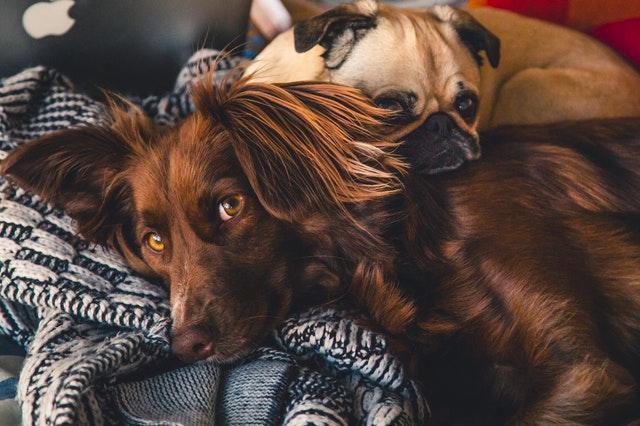
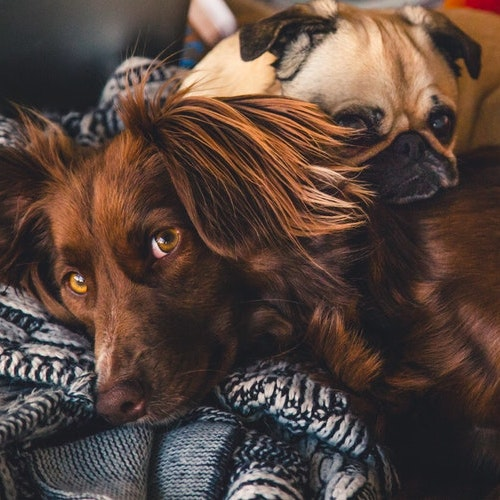
Develop functioning carousel

diff --git a/adopt.html b/adopt.html
@@ -16,7 +16,7 @@
     <nav class="navbar navbar-expand-md navbar-dark bg-custom">
       <a class="navbar-brand" href="#">Derby Pet Match</a>
       <button class="navbar-toggler" type="button" data-toggle="collapse" data-target="#collapsibleNav"><span class="navbar-toggler-icon"></span></button>
-      
+
       <div class="collapse navbar-collapse" id="collapsibleNav">
         <ul class="navbar-nav ml-md-auto">
           <li class="nav-item">
@@ -36,63 +36,66 @@
 
     </nav><!-- /.navbar -->
   </header>
-  
-      <div class="jumbotron" id="appPreamble">
-        <h1 class="display-5">Pet Adoption</h1><hr>
-      </div>
-  
-    <div class="container-fluid">
-      
-      <div id="appWrap">
-        <div id="appInput">
-          
-          <div class="card appInitial" id="q0">
-            <div class="card-body">
-              <h2 class="card-title">Let's begin!</h2><hr>
-              <p class="card-text">Would you like us to find a pet who best suits you and your home, or simply view all available pets?<br><br>
-              
+
+  <div class="jumbotron" id="appPreamble">
+    <h1 class="display-5">Pet Adoption</h1>
+    <hr>
+  </div>
+
+  <div class="container-fluid">
+
+    <div id="appWrap">
+      <div id="appInput">
+
+        <div class="card appInitial" id="q0">
+          <div class="card-body">
+            <h2 class="card-title">Let's begin!</h2>
+            <hr>
+            <p class="card-text">Would you like us to find a pet who best suits you and your home, or simply view all available pets?<br><br>
+
               <button class="btn btn-dark" id="viewAll" data-selection="viewAll">View all pets</button>
               <button class="btn btn-dark" id="petMatch" data-selection="petMatch">Find your match</button>
-              </p>
-            </div>
-          </div><!-- /.appInitial#q0 -->
-          
-          <div class="card appQuestion" id="q1">
-            <div class="card-body">
-              <h2 class="card-title">What kind of personality do you have?</h2><hr>
-              <p class="card-text">We know you're a caring person because you're interested in adoption. Some pets are better suited to certain human lifestyles. Do you have an introverted, or an extroverted personality?<br><br>
+            </p>
+          </div>
+        </div><!-- /.appInitial#q0 -->
+
+        <div class="card appQuestion" id="q1">
+          <div class="card-body">
+            <h2 class="card-title">What kind of personality do you have?</h2>
+            <hr>
+            <p class="card-text">We know you're a caring person because you're interested in adoption. Some pets are better suited to certain human lifestyles. Do you have an introverted, or an extroverted personality?<br><br>
 
               <button class="btn btn-dark nextQuestion" data-selection="introvert">I'm an introvert</button>
               <button class="btn btn-dark nextQuestion" data-selection="extrovert">I'm an extrovert</button>
-              </p>
-            </div>
-          </div><!-- /.appQuestion#q1 -->
-          
-          <div class="card appQuestion" id="q2">
-            <div class="card-body">
-              <h2 class="card-title">How big is your living space?</h2>
-              <p class="card-text">The amount of space a pet needs to live comfortable can vary dramatically based on multiple factors, such as species, breed, sex, etc. It's okay if you don't own your own home, we just need to know how many rooms you have.<br><br>
+            </p>
+          </div>
+        </div><!-- /.appQuestion#q1 -->
+
+        <div class="card appQuestion" id="q2">
+          <div class="card-body">
+            <h2 class="card-title">How big is your living space?</h2>
+            <p class="card-text">The amount of space a pet needs to live comfortable can vary dramatically based on multiple factors, such as species, breed, sex, etc. It's okay if you don't own your own home, we just need to know how many rooms you have.<br><br>
               I have <input type="number"> rooms.<br>
               <button class="btn btn-dark nextQuestion" data-input>Proceed</button>
-              </p>
-            </div>
-          </div><!-- /.appQuestion#q2 -->
-          
-          <div class="card appQuestion" id="q3">
-            <div class="card-body">
-              <h2 class="card-title">Do you have access to a yard?</h2>
-              <p class="card-text">Some pets require daily access to the outdoors, such as a yard. Can you provide or have access to such a space?<br><br>
+            </p>
+          </div>
+        </div><!-- /.appQuestion#q2 -->
 
-                <button class="btn btn-dark nextQuestion" data-selection="true">I have a yard</button>
-                <button class="btn btn-dark nextQuestion" data-selection="">I do not have a yard</button><!-- This data-selection is deliberately empty; empty strings evaluate to false in JS -->
-              </p>
-            </div>
-          </div><!-- /.appQuestion#q3 -->
-          
-          <div class="card appQuestion" id="q4">
-            <div class="card-body">
-              <h2 class="card-title">Which of the following do you already have?</h2>
-              <p class="card-text">Everyone has likes and dislikes, even pets! Some pets don't have the temperment to deal with children, or even others of their own species. Please read the following choices and select those things which exist in your home.<br><br>
+        <div class="card appQuestion" id="q3">
+          <div class="card-body">
+            <h2 class="card-title">Do you have access to a yard?</h2>
+            <p class="card-text">Some pets require daily access to the outdoors, such as a yard. Can you provide or have access to such a space?<br><br>
+
+              <button class="btn btn-dark nextQuestion" data-selection="true">I have a yard</button>
+              <button class="btn btn-dark nextQuestion" data-selection="">I do not have a yard</button><!-- This data-selection is deliberately empty; empty strings evaluate to false in JS -->
+            </p>
+          </div>
+        </div><!-- /.appQuestion#q3 -->
+
+        <div class="card appQuestion" id="q4">
+          <div class="card-body">
+            <h2 class="card-title">Which of the following do you already have?</h2>
+            <p class="card-text">Everyone has likes and dislikes, even pets! Some pets don't have the temperment to deal with children, or even others of their own species. Please read the following choices and select those things which exist in your home.<br><br>
 
               <input type="checkbox" id="children" data-selection="child">
               <label for="children">Children</label>
@@ -102,46 +105,46 @@
               <label for="dogs">Dogs</label>
 
               <button class="btn btn-dark finalQuestion" data-input>Show me my matches!</button>
-              </p>
-            </div>
-          </div><!-- /.appQuestion#q4 -->
+            </p>
+          </div>
+        </div><!-- /.appQuestion#q4 -->
 
-        </div>
-        <div class="row appOutput">
-
-        </div><!-- /.row /.appOutput -->
       </div>
-      
-    </div><!-- /.container -->
+      <div class="row appOutput">
+
+      </div><!-- /.row /.appOutput -->
+    </div>
+
+  </div><!-- /.container -->
 
   <footer>
     <ul class="nav d-flex flex-column flex-md-row align-items-center">
-        <li class="nav-item">
-          <a class="nav-link" href="index.html">Home</a>
-        </li>
-        <li class="nav-item">
-          <a class="nav-link" href="#">Adopt</a>
-        </li>
-        <li class="nav-item">
-          <a class="nav-link" href="index.html#about">About</a>
-        </li>
-        <li class="nav-item">
-          <a class="nav-link" href="index.html#contact">Contact</a>
-        </li>
-        <li class="nav-item">
-          <a class="nav-link" href="tel:502-555-5555">Call now</a>
-        </li>
-        <li class="nav-item ml-md-auto">
-          <a class="nav-link disabled" href="#"><address class="nav-text">100 Fictional Ave., Louisville, KY 40204</address></a>
-        </li>
-      </ul>
+      <li class="nav-item">
+        <a class="nav-link" href="index.html">Home</a>
+      </li>
+      <li class="nav-item">
+        <a class="nav-link" href="#">Adopt</a>
+      </li>
+      <li class="nav-item">
+        <a class="nav-link" href="index.html#about">About</a>
+      </li>
+      <li class="nav-item">
+        <a class="nav-link" href="index.html#contact">Contact</a>
+      </li>
+      <li class="nav-item">
+        <a class="nav-link" href="tel:502-555-5555">Call now</a>
+      </li>
+      <li class="nav-item ml-md-auto">
+        <a class="nav-link disabled" href="#">
+          <address class="nav-text">100 Fictional Ave., Louisville, KY 40204</address>
+        </a>
+      </li>
+    </ul>
   </footer>
 
   <script src="js/jquery-3.4.1.min.js"></script>
   <script src="js/bootstrap.bundle.min.js"></script>
   <script src="js/app.js"></script>
 
-</body>
-
-</html>
+</body></html>
 

diff --git a/index.html b/index.html
@@ -94,30 +94,32 @@
       <!-- /#about-image -->
 
       <div id="attract" class="carousel slide col-12 col-md-6 col-xl-3 order-2 order-md-3 order-xl-1" data-ride="carousel">
-        <ol class="carousel-indicators">
-          <li data-target="#attract" data-slide-to="0" class="active"></li>
-          <li data-target="#attract" data-slide-to="1"></li>
-          <li data-target="#attract" data-slide-to="2"></li>
-        </ol>
-        <div class="carousel-inner">
-          <div class="carousel-item active">
-            <img class="d-block" src="img/best-friends.jpg" alt="A puppy and kitten playing with each other">
+        <div id="attract-wrapper">
+          <ol class="carousel-indicators">
+            <li data-target="#attract" data-slide-to="0" class="active"></li>
+            <li data-target="#attract" data-slide-to="1"></li>
+            <li data-target="#attract" data-slide-to="2"></li>
+          </ol>
+          <div class="carousel-inner">
+            <div class="carousel-item active">
+              <img class="d-block" src="img/best-friends.jpg" alt="A puppy and kitten playing with each other">
+            </div>
+            <div class="carousel-item">
+              <img class="d-block" src="img/dogs-crate.jpg" alt="A dog being pet through a crate">
+            </div>
+            <div class="carousel-item">
+              <img class="d-block" src="img/dogs-together.jpg" alt="Two dogs snuggling on a couch">
+            </div>
           </div>
-          <div class="carousel-item">
-            <img class="d-block" src="img/dogs-crate.jpg" alt="A dog being pet through a crate">
-          </div>
-          <div class="carousel-item">
-            <img class="d-block" src="img/dogs-together.jpg" alt="Two dogs snuggling on a couch">
-          </div>
+          <a class="carousel-control-prev" href="#attract" role="button" data-slide="prev">
+            <span class="carousel-control-prev-icon" aria-hidden="true"></span>
+            <span class="sr-only">Previous</span>
+          </a>
+          <a class="carousel-control-next" href="#attract" role="button" data-slide="next">
+            <span class="carousel-control-next-icon" aria-hidden="true"></span>
+            <span class="sr-only">Next</span>
+          </a>
         </div>
-        <a class="carousel-control-prev" href="#attract" role="button" data-slide="prev">
-          <span class="carousel-control-prev-icon" aria-hidden="true"></span>
-          <span class="sr-only">Previous</span>
-        </a>
-        <a class="carousel-control-next" href="#attract" role="button" data-slide="next">
-          <span class="carousel-control-next-icon" aria-hidden="true"></span>
-          <span class="sr-only">Next</span>
-        </a>
       </div> <!-- /#attract -->
 
       <div class="col-12 col-md-6 col-xl-3 order-4 order-xl-3" id="contact-image">

diff --git a/css/style.css b/css/style.css
@@ -74,16 +74,15 @@ a {
   index.html
 ~~~~~~~~~~~~~~~~~~~~~~~~~~~~~~ */
 
-.carousel-item {
-  display: flex;
-  align-content: center;
+.carousel {
+  /* Match margin of surrounding content. */
+  margin-bottom: 1rem;
 }
 
 .carousel img {
-  height: 500px;
-  align-content: center;
+  /* Prevent image from clipping beyond right side of viewport. */
+  width: 100%;
 }
-
 
 /* ~~~~~~~~~~~~~~~~~~~~~~~~~~~~~~
   adopt.html
@@ -91,7 +90,7 @@ a {
 .appQuestion {
   /* To be overriden in app.js */
   display: none;
-} 
+}
 
 .card,
 .list-group-item {
@@ -107,13 +106,25 @@ a {
   .btn {
     padding: 6px 12px;
   }
-  
+
   .nav-link {
     padding: .5rem 1rem;
   }
-  
+
   .nav-item {
     border-bottom: 0;
   }
-  
+
+  .carousel img {
+    /* Allow default behavior at intermediate resolutions. */
+    width: auto;
+  }
+
+}
+
+@media (min-width: 2048px) {
+  .carousel img {
+    /* Stretch image at xl resolutions. */
+    width: 100%;
+  }
 }
